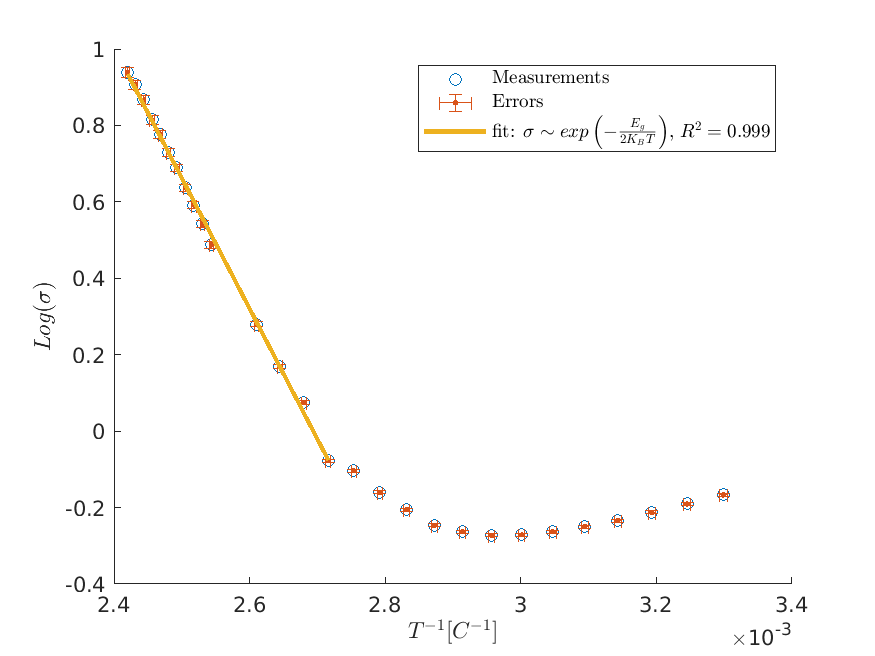
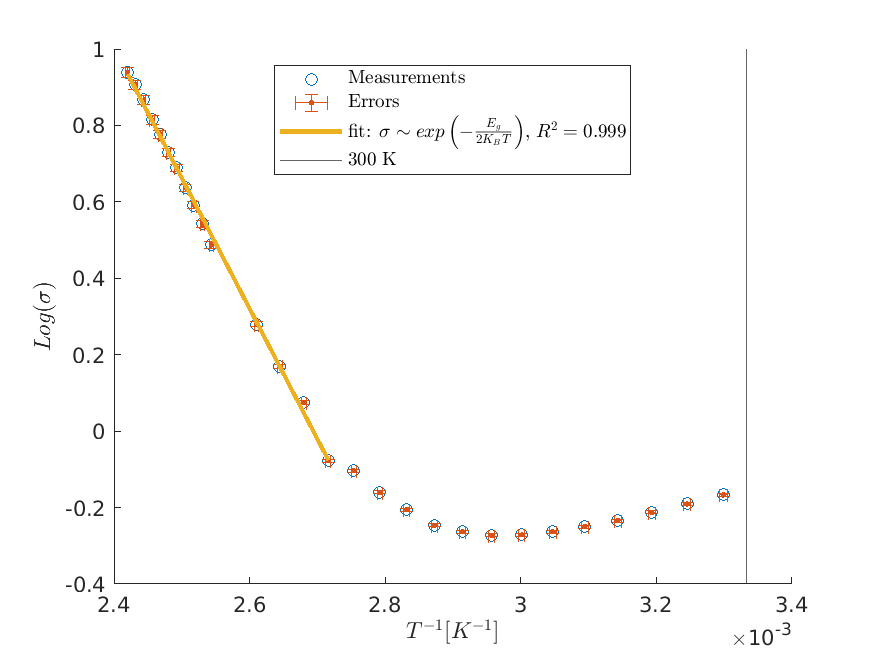
Hall: Fix temerature axis

Changed region(s): [[0.3086, 0.0915, 0.8023, 0.2744], [0.4629, 0.9451, 0.5863, 0.9756], [0.8331, 0.1829, 0.8949, 0.2134]]

diff --git a/x4.Hall/combined.m b/x4.Hall/combined.m
@@ -356,13 +356,15 @@ plot(nt_part4_fit_x_data, ...
 	polyval([nt_part4_fitresult.p1 nt_part4_fitresult.p2], nt_part4_fit_x_data), ...
 	'LineWidth', 2 ...
 )
+xline(300^-1)
 legend( ...
 	'Measurements', ...
 	'Errors', ...
 	'fit: $\sigma \sim exp\left(-\frac{E_g}{2 K_B T}\right)$, $R^2 = 0.999$', ...
-	'Location', 'NorthEast', 'Interpreter', 'Latex' ...
+	'300 K', ...
+	'Location', 'North', 'Interpreter', 'Latex' ...
 )
-xlabel( '$T^{-1} [C^{-1}]$', 'Interpreter', 'Latex' );
+xlabel( '$T^{-1} [K^{-1}]$', 'Interpreter', 'Latex' );
 ylabel( '$Log(\sigma)$', 'Interpreter', 'Latex' );
 print('part4 - E_g.png', '-dpng')
 close(part4_fig)
@@ -435,13 +437,15 @@ plot(nt_part5_fit_x_data, ...
 	polyval([nt_part5_fitresult.p1 nt_part5_fitresult.p2], nt_part5_fit_x_data), ...
 	'LineWidth', 2 ...
 )
+xline(300^-1)
 legend( ...
 	'Measurements', ...
 	'Errors', ...
 	'fit: $\sigma \sim exp\left(-\frac{E_g}{2 K_B T}\right)$, $R^2 = 0.994$', ...
-	'Location', 'NorthEast', 'Interpreter', 'Latex' ...
+	'300 K', ...
+	'Location', 'North', 'Interpreter', 'Latex' ...
 )
-xlabel( '$T^{-1} [C^{-1}]$', 'Interpreter', 'Latex' );
+xlabel( '$T^{-1} [K^{-1}]$', 'Interpreter', 'Latex' );
 ylabel( '$Log(\sigma)$', 'Interpreter', 'Latex' );
 print("part5 - E_g with magnetic field.png", "-dpng")
 bla
